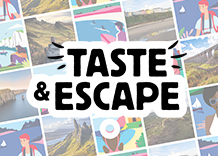
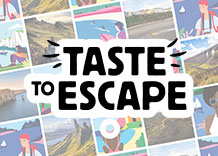
title update

diff --git a/_pages/index.html b/_pages/index.html
@@ -3,12 +3,12 @@ layout: page
 id: overview
 nav: true
 nav-order: 1
-title: Taste & Escape
+title: Taste to Escape
 
 banner:
   content: >
     <div class="container container--no-padding text--center">
-      <h1><img class="widht width--taste-escape" src="{{site.img}}/pages/overview/title.svg" alt="Taste & Escape"></h1>
+      <h1><img class="widht width--taste-escape" src="{{site.img}}/pages/overview/title.svg" alt="Taste to Escape"></h1>
       <div class="width width--xxl vpad--sm">
         <h2 class="h h--md">Discover our Light & Free collaboration for your chance to win one of our secret staycations</h2>
       </div>
